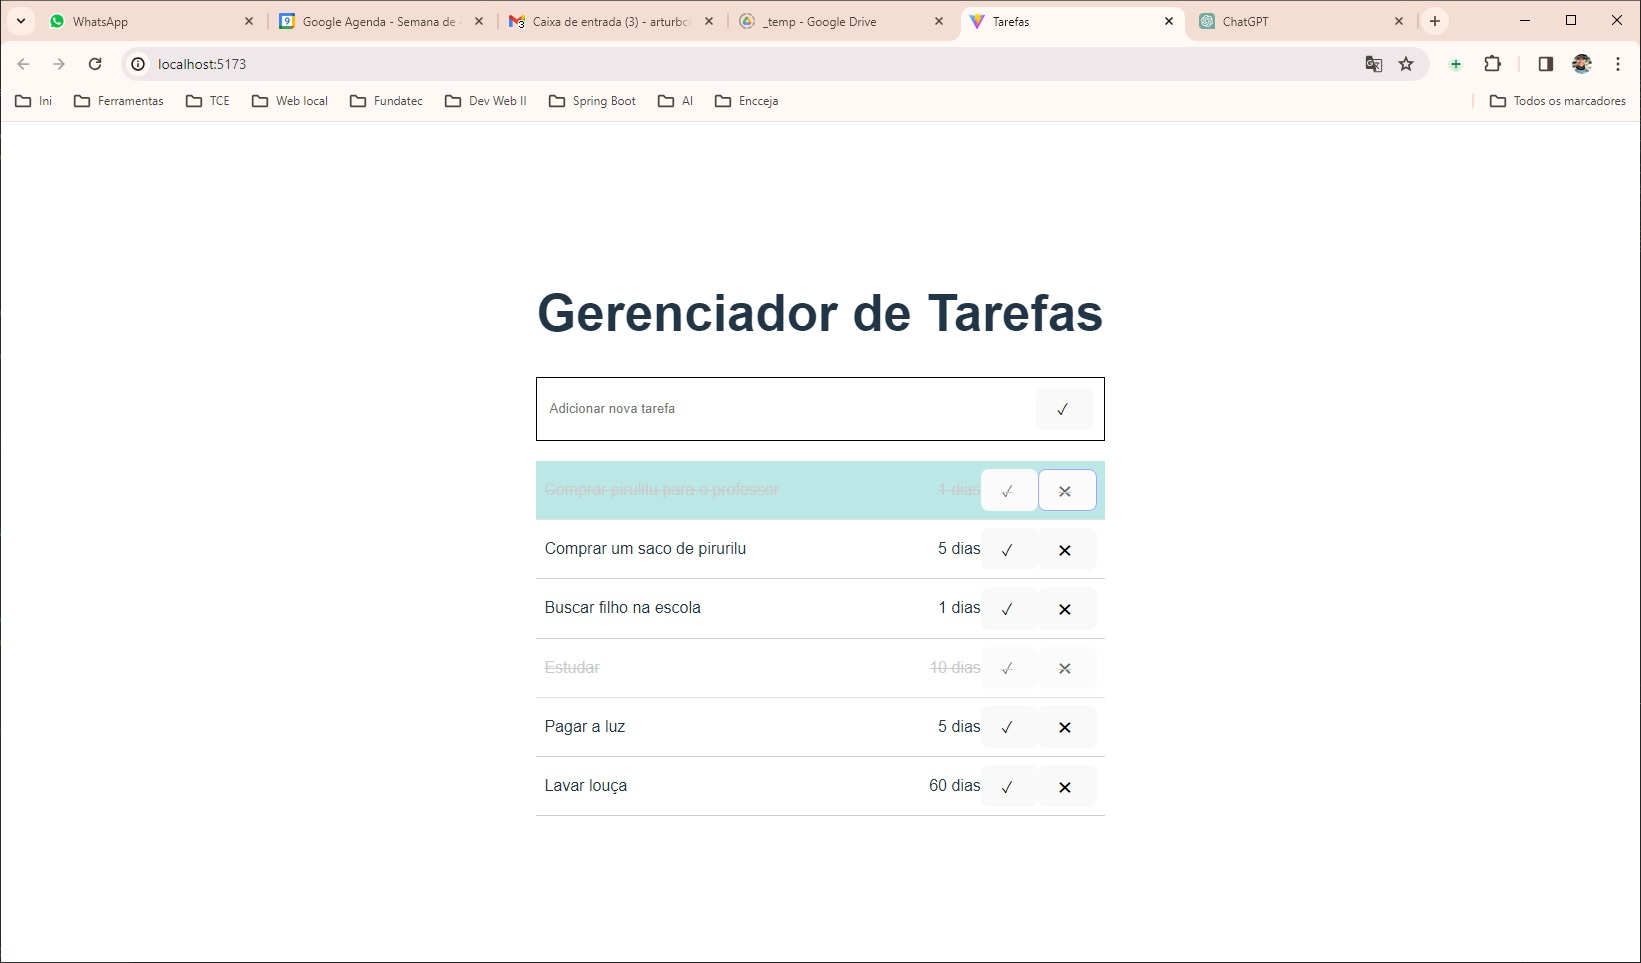
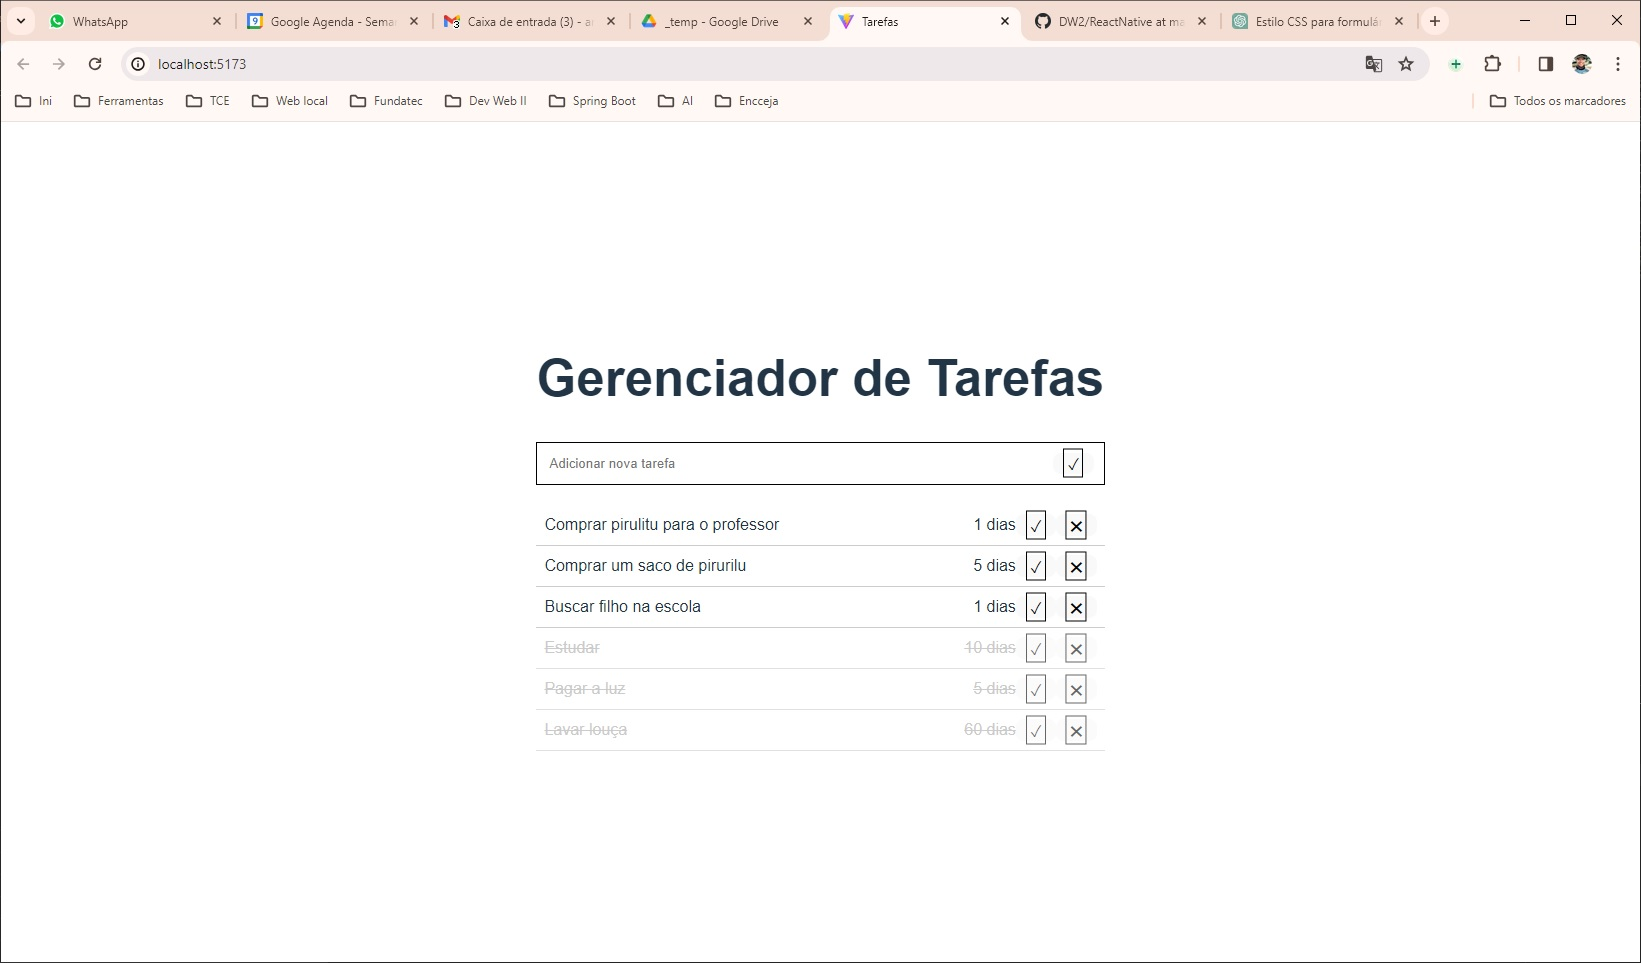
Acerto no CSS Aula 09 Tarefas, print da tela

diff --git a/ReactNative/aula09-tarefas/src/App.css b/ReactNative/aula09-tarefas/src/App.css
@@ -80,19 +80,33 @@ body {
 
 button {
   cursor: pointer;
+  position: relative;
+}
+
+button::before {
+  position: absolute;
+  top: 50%;
+  left: 50%;
+  transform: translate(-50%, -50%);
 }
 
 button[type="submit"]::before {
   content: "✔";
   margin-right: 5px;
+  border: 1px solid black; /* Borda externa */
+  padding: 3px; /* Espaço interno */
 }
 
 button.delete::before {
   content: "✖";
   margin-right: 5px;
+  border: 1px solid black; /* Borda externa */
+  padding: 3px; /* Espaço interno */
 }
 
 button.concluir::before {
   content: "✓";
   margin-right: 5px;
+  border: 1px solid black; /* Borda externa */
+  padding: 3px; /* Espaço interno */
 }
